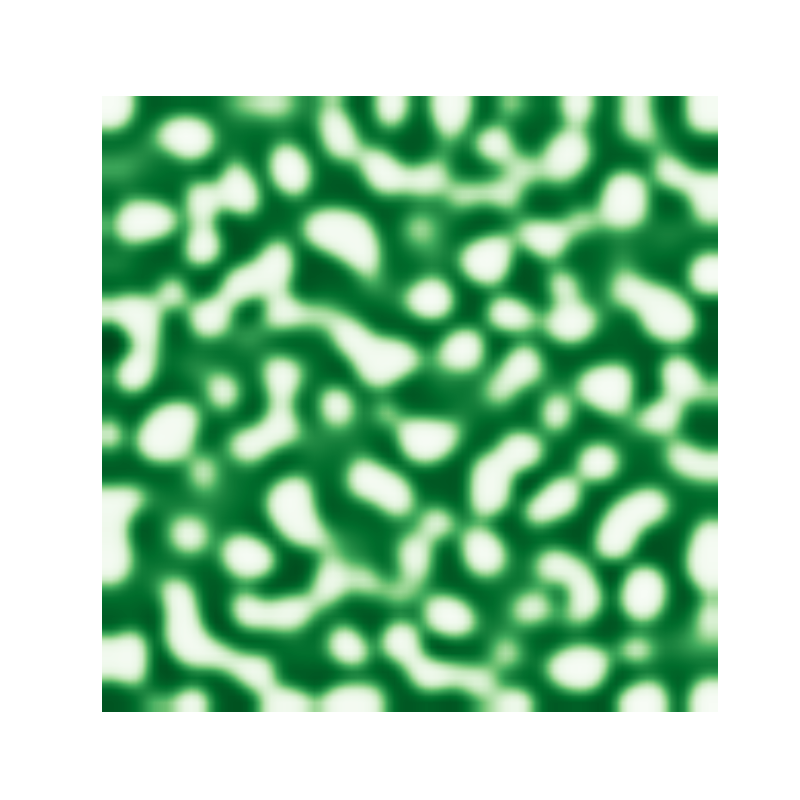
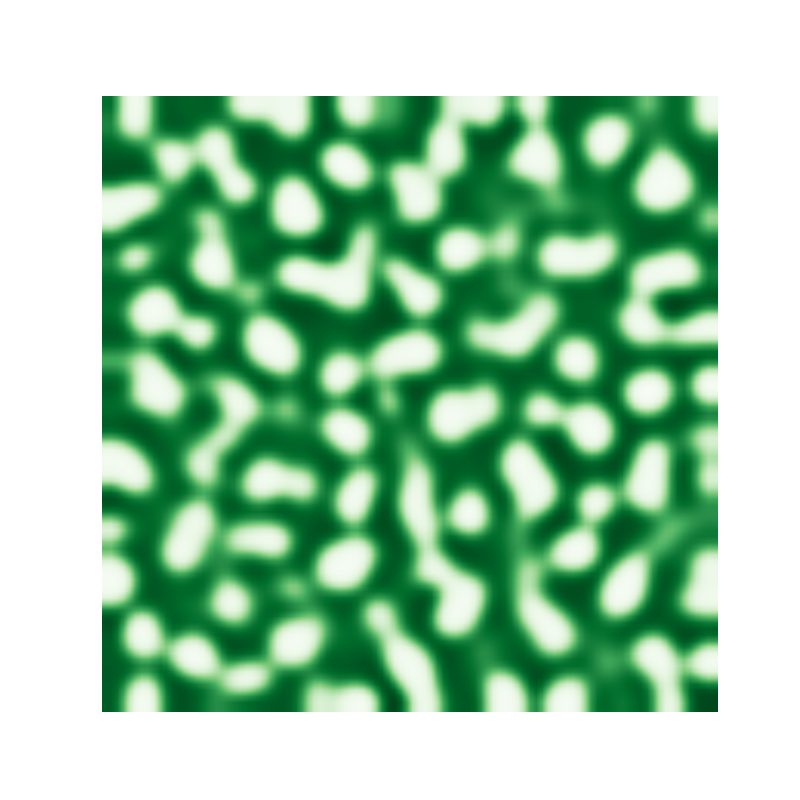
Playing with code...

diff --git a/GSPDE.py b/GSPDE.py
@@ -1,0 +1,63 @@
+from __future__ import division
+import numpy as np
+import matplotlib.pyplot as plt
+from scipy.sparse import spdiags
+
+class GrayScott():
+    """Class to solve Gray-Scott Reaction-Diffusion equation"""
+
+    def __init__(self, N):
+        self.N = N
+        self.u = np.ones((N, N), dtype=np.float128)
+        self.v = np.zeros((N, N), dtype=np.float128)
+
+    def laplacian(self):
+        """Construct a sparse matrix that applies the 5-point discretization"""
+        N = self.N
+        e = np.ones(N ** 2)
+        e2 = ([1] * (N - 1) + [0]) * N
+        e3 = ([0] + [1] * (N - 1)) * N
+        A = spdiags([-4 * e, e2, e3, e, e], [0, -1, 1, -N, N], N ** 2, N ** 2)
+        return A
+
+    def initialise(self):
+        """Setting up the initial condition"""
+        N, N2, r = self.N, np.int(self.N / 2), 16
+
+        self.u += 0.02 * np.random.random((N, N))
+        self.v += 0.02 * np.random.random((N, N))
+
+        self.u[N2 - r:N2 + r, N2 - r:N2 + r] = 0.50
+        self.v[N2 - r:N2 + r, N2 - r:N2 + r] = 0.25
+        return
+
+    def integrate(self, Nt, Du, Dv, F, K, L):
+        """Integrate the resulting system of equations using the Euler method"""
+        u = self.u.reshape((self.N * self.N))
+        v = self.v.reshape((self.N * self.N))
+
+        # evolve in time using Euler method
+        for i in range(Nt):
+            uvv = u * v * v
+            u += (Du * L.dot(u) - uvv + F * (1 - u))
+            v += (Dv * L.dot(v) + uvv - (F + K) * v)
+
+        self.u = u
+        self.v = v
+        return
+
+    def configPlot(self):
+        """Plotting business"""
+        u = self.u
+        v = self.v
+        f = plt.figure(figsize=(25, 10), dpi=400, facecolor='w', edgecolor='k');
+        sp = f.add_subplot(1, 2, 1);
+        plt.pcolor(u.reshape((self.N, self.N)), cmap=plt.cm.RdBu)
+        plt.axis('tight')
+
+        sp = f.add_subplot(1, 2, 2);
+        plt.pcolor(v.reshape((self.N, self.N)), cmap=plt.cm.RdBu)
+        plt.axis('tight')
+        plt.show()
+        plt.savefig("Example.png")
+

diff --git a/simulation.py b/simulation.py
@@ -1,0 +1,11 @@
+from GSPDE import GrayScott
+
+N = 256
+rdSolver = GrayScott(N)
+L = rdSolver.laplacian()
+Du, Dv, F, K = 0.14, 0.06, 0.035, 0.065
+Nt = 320
+
+rdSolver.initialise()
+rdSolver.integrate(Nt, Du, Dv, F, K, L)
+rdSolver.configPlot()
